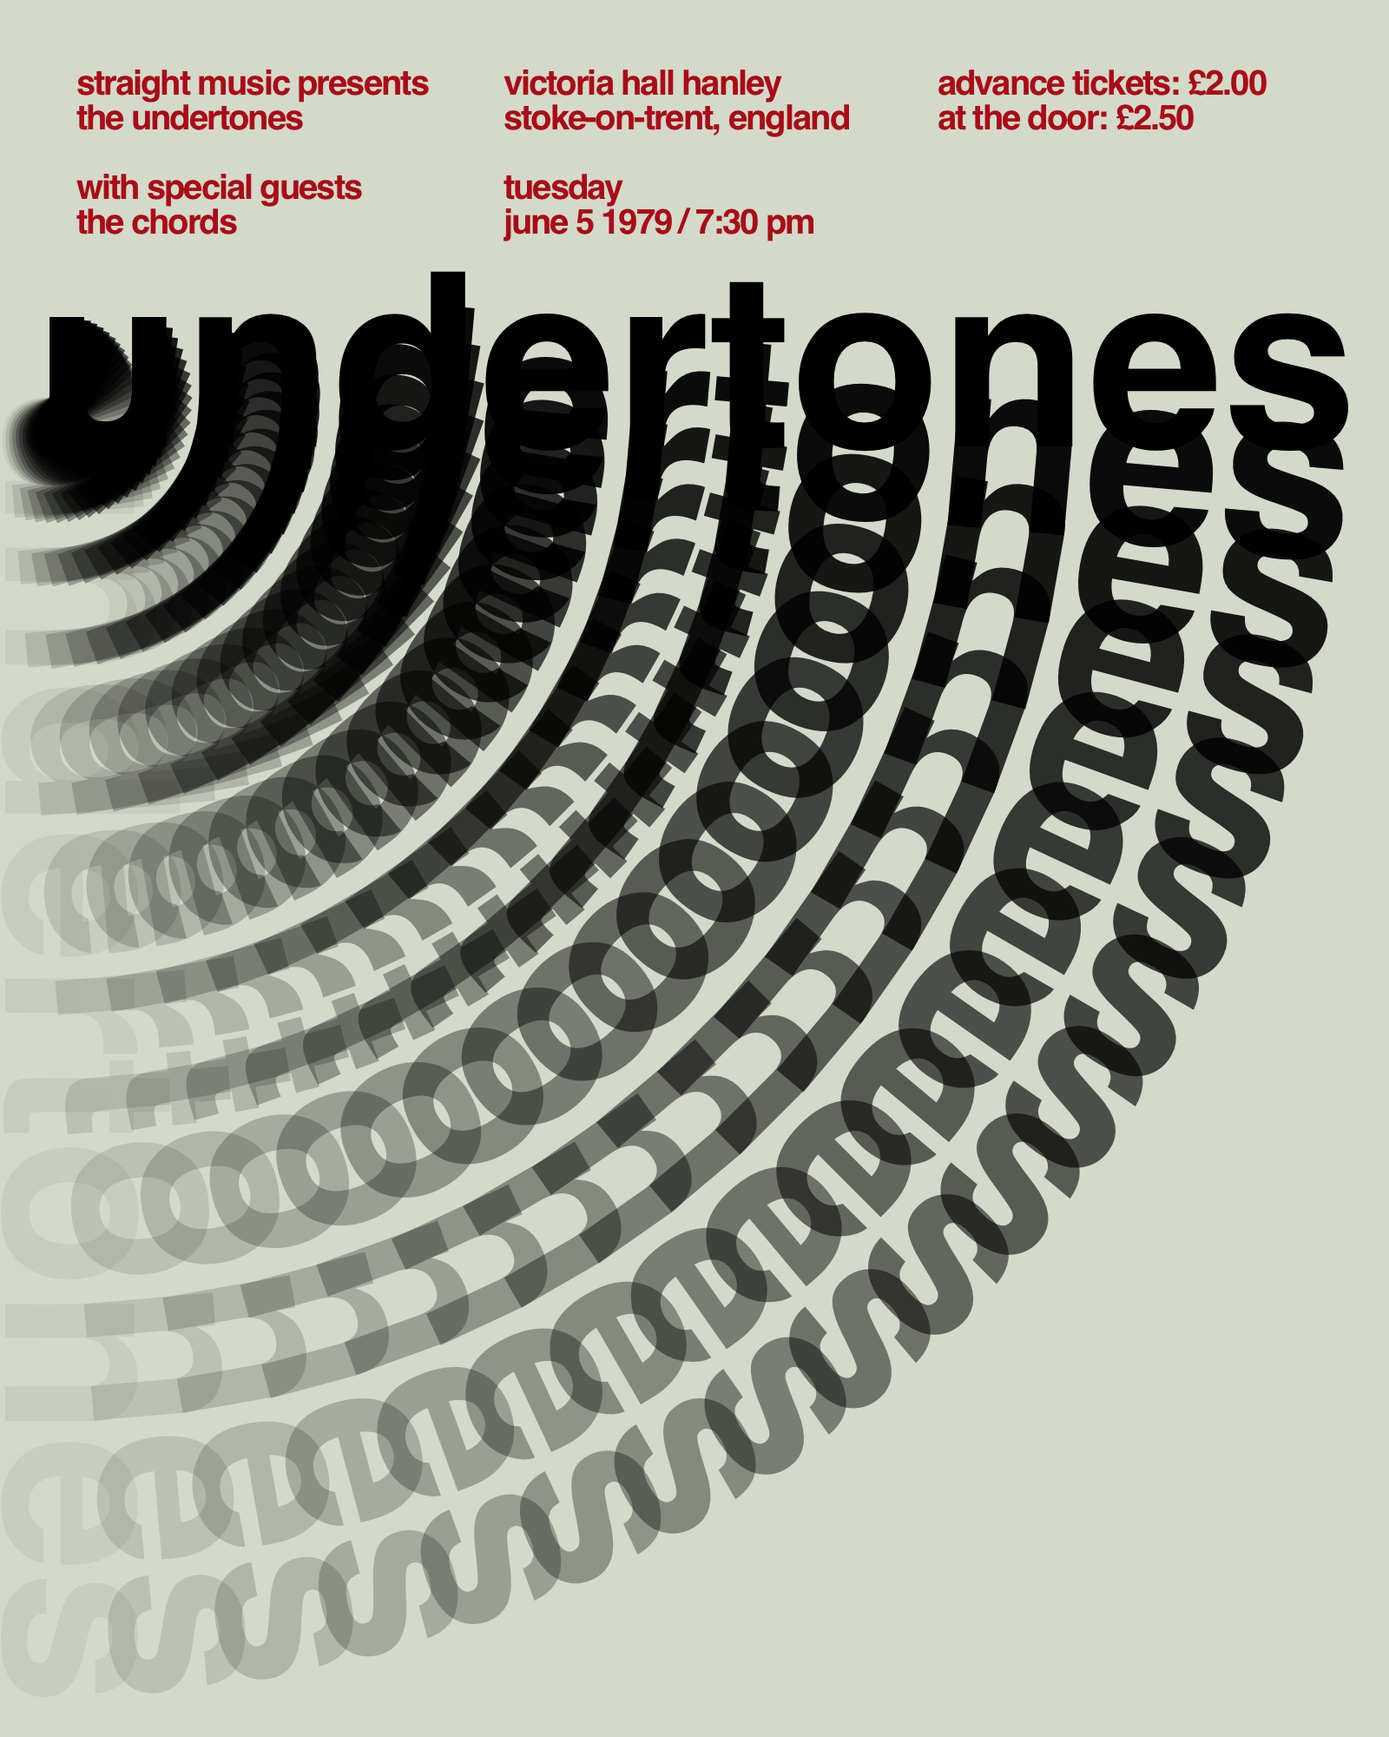
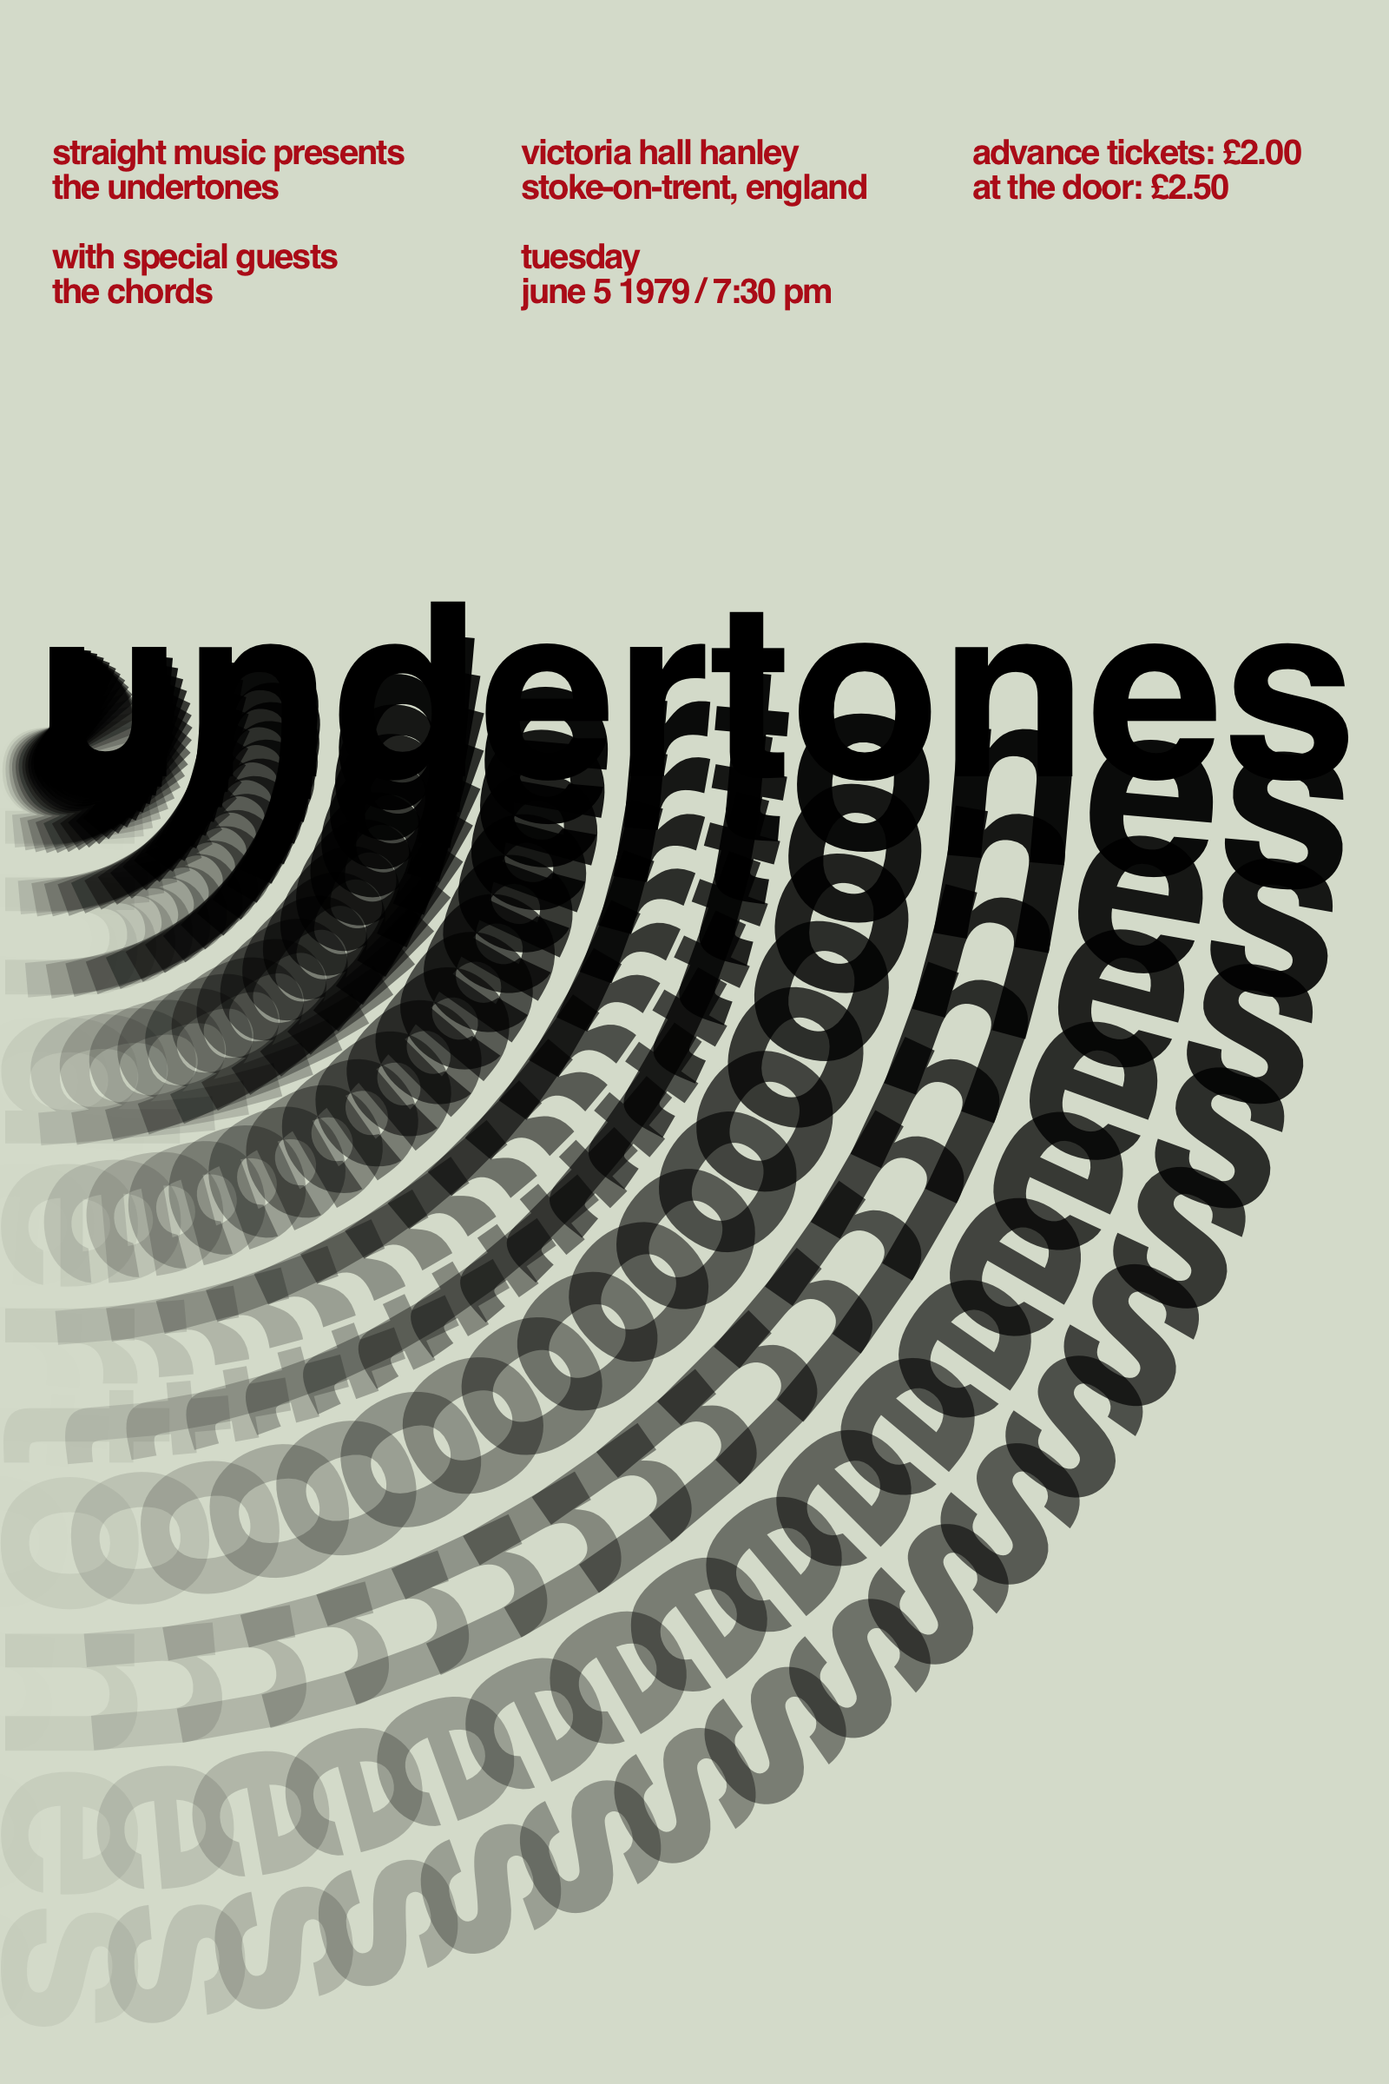
Revised dimensions to 400x600 and added Helvetica-based targets

diff --git a/ExamReviewKeyConcepts/ExamReviewKeyConcepts.playground/Pages/Exercise 4.xcplaygroundpage/Sources/Helper.swift b/ExamReviewKeyConcepts/ExamReviewKeyConcepts.playground/Pages/Exercise 4.xcplaygroundpage/Sources/Helper.swift
@@ -442,26 +442,25 @@ open class Canvas : CustomPlaygroundQuickLookable {
     }
     
     // Draw a rectangle on the image
-    open func drawRectangle(bottomLeftX: Int, bottomLeftY: Int, width: Int, height: Int, borderWidth: Int = 1) {
+    open func drawRectangle(bottomLeftX: Float, bottomLeftY: Float, width: Float, height: Float, borderWidth: Float = 1) {
         
         // Set attributes of shape based on the canvas scale factor
         var bottomLeftX = bottomLeftX
-        bottomLeftX *= scale
+        bottomLeftX *= Float(scale)
         var bottomLeftY = bottomLeftY
-        bottomLeftY *= scale
+        bottomLeftY *= Float(scale)
         var width = width
-        width *= scale
+        width *= Float(scale)
         var height = height
-        height *= scale
+        height *= Float(scale)
         var borderWidth = borderWidth
-        borderWidth *= scale
+        borderWidth *= Float(scale)
         
         // Make the new path
-        let path = NSBezierPath(rect: NSRect(x: bottomLeftX, y: bottomLeftY, width: width, height: height))
-        
+        let path = NSBezierPath(rect: NSRect(x: CGFloat(bottomLeftX), y: CGFloat(bottomLeftY), width: CGFloat(width), height: CGFloat(height)))
         
         // Set width of border
-        if borderWidth > 1 * scale {
+        if borderWidth > 1 * Float(scale) {
             path.lineWidth = CGFloat(borderWidth)
         } else {
             path.lineWidth = CGFloat(self.defaultBorderWidth * scale)
@@ -485,11 +484,25 @@ open class Canvas : CustomPlaygroundQuickLookable {
         
     }
     
+    // Draw a rectangle on the image
+    open func drawRectangle(bottomLeftX: Int, bottomLeftY: Int, width: Int, height: Int, borderWidth: Int = 1) {
+        
+        self.drawRectangle(bottomLeftX: Float(bottomLeftX), bottomLeftY: Float(bottomLeftY), width: Float(width), height: Float(height))
+        
+    }
+    
+    // Convenience method to draw rectangle from it's centre point
+    open func drawRectangle(centreX: Float, centreY: Float, width: Float, height: Float, borderWidth: Float = 1) {
+        
+        // Call the original method but with points translated
+        self.drawRectangle(bottomLeftX: centreX - width / 2, bottomLeftY: centreY - height / 2, width: width, height: height, borderWidth: borderWidth)
+    }
+    
     // Convenience method to draw rectangle from it's centre point
     open func drawRectangle(centreX: Int, centreY: Int, width: Int, height: Int, borderWidth: Int = 1) {
         
         // Call the original method but with points translated
-        self.drawRectangle(bottomLeftX: centreX - width / 2, bottomLeftY: centreY - height / 2, width: width, height: height, borderWidth: borderWidth)
+        self.drawRectangle(centreX: Float(centreX), centreY: Float(centreY), width: Float(width), height: Float(height))
         
     }
     
@@ -627,7 +640,7 @@ open class Canvas : CustomPlaygroundQuickLookable {
     open func restoreState() {
         NSGraphicsContext.restoreGraphicsState()
     }
-
+    
     open func drawAxes() {
         
         // Draw horizontal axis

diff --git a/ExamReviewKeyConcepts/ExamReviewKeyConcepts.playground/Pages/Exercise 1 .xcplaygroundpage/Sources/Helper.swift b/ExamReviewKeyConcepts/ExamReviewKeyConcepts.playground/Pages/Exercise 1 .xcplaygroundpage/Sources/Helper.swift
@@ -442,26 +442,25 @@ open class Canvas : CustomPlaygroundQuickLookable {
     }
     
     // Draw a rectangle on the image
-    open func drawRectangle(bottomLeftX: Int, bottomLeftY: Int, width: Int, height: Int, borderWidth: Int = 1) {
+    open func drawRectangle(bottomLeftX: Float, bottomLeftY: Float, width: Float, height: Float, borderWidth: Float = 1) {
         
         // Set attributes of shape based on the canvas scale factor
         var bottomLeftX = bottomLeftX
-        bottomLeftX *= scale
+        bottomLeftX *= Float(scale)
         var bottomLeftY = bottomLeftY
-        bottomLeftY *= scale
+        bottomLeftY *= Float(scale)
         var width = width
-        width *= scale
+        width *= Float(scale)
         var height = height
-        height *= scale
+        height *= Float(scale)
         var borderWidth = borderWidth
-        borderWidth *= scale
+        borderWidth *= Float(scale)
         
         // Make the new path
-        let path = NSBezierPath(rect: NSRect(x: bottomLeftX, y: bottomLeftY, width: width, height: height))
-        
+        let path = NSBezierPath(rect: NSRect(x: CGFloat(bottomLeftX), y: CGFloat(bottomLeftY), width: CGFloat(width), height: CGFloat(height)))
         
         // Set width of border
-        if borderWidth > 1 * scale {
+        if borderWidth > 1 * Float(scale) {
             path.lineWidth = CGFloat(borderWidth)
         } else {
             path.lineWidth = CGFloat(self.defaultBorderWidth * scale)
@@ -485,11 +484,25 @@ open class Canvas : CustomPlaygroundQuickLookable {
         
     }
     
+    // Draw a rectangle on the image
+    open func drawRectangle(bottomLeftX: Int, bottomLeftY: Int, width: Int, height: Int, borderWidth: Int = 1) {
+        
+        self.drawRectangle(bottomLeftX: Float(bottomLeftX), bottomLeftY: Float(bottomLeftY), width: Float(width), height: Float(height))
+        
+    }
+    
+    // Convenience method to draw rectangle from it's centre point
+    open func drawRectangle(centreX: Float, centreY: Float, width: Float, height: Float, borderWidth: Float = 1) {
+        
+        // Call the original method but with points translated
+        self.drawRectangle(bottomLeftX: centreX - width / 2, bottomLeftY: centreY - height / 2, width: width, height: height, borderWidth: borderWidth)
+    }
+    
     // Convenience method to draw rectangle from it's centre point
     open func drawRectangle(centreX: Int, centreY: Int, width: Int, height: Int, borderWidth: Int = 1) {
         
         // Call the original method but with points translated
-        self.drawRectangle(bottomLeftX: centreX - width / 2, bottomLeftY: centreY - height / 2, width: width, height: height, borderWidth: borderWidth)
+        self.drawRectangle(centreX: Float(centreX), centreY: Float(centreY), width: Float(width), height: Float(height))
         
     }
     

diff --git a/ExamReviewKeyConcepts/ExamReviewKeyConcepts.playground/Pages/Exercise 2.xcplaygroundpage/Sources/Helper.swift b/ExamReviewKeyConcepts/ExamReviewKeyConcepts.playground/Pages/Exercise 2.xcplaygroundpage/Sources/Helper.swift
@@ -442,26 +442,25 @@ open class Canvas : CustomPlaygroundQuickLookable {
     }
     
     // Draw a rectangle on the image
-    open func drawRectangle(bottomLeftX: Int, bottomLeftY: Int, width: Int, height: Int, borderWidth: Int = 1) {
+    open func drawRectangle(bottomLeftX: Float, bottomLeftY: Float, width: Float, height: Float, borderWidth: Float = 1) {
         
         // Set attributes of shape based on the canvas scale factor
         var bottomLeftX = bottomLeftX
-        bottomLeftX *= scale
+        bottomLeftX *= Float(scale)
         var bottomLeftY = bottomLeftY
-        bottomLeftY *= scale
+        bottomLeftY *= Float(scale)
         var width = width
-        width *= scale
+        width *= Float(scale)
         var height = height
-        height *= scale
+        height *= Float(scale)
         var borderWidth = borderWidth
-        borderWidth *= scale
+        borderWidth *= Float(scale)
         
         // Make the new path
-        let path = NSBezierPath(rect: NSRect(x: bottomLeftX, y: bottomLeftY, width: width, height: height))
-        
+        let path = NSBezierPath(rect: NSRect(x: CGFloat(bottomLeftX), y: CGFloat(bottomLeftY), width: CGFloat(width), height: CGFloat(height)))
         
         // Set width of border
-        if borderWidth > 1 * scale {
+        if borderWidth > 1 * Float(scale) {
             path.lineWidth = CGFloat(borderWidth)
         } else {
             path.lineWidth = CGFloat(self.defaultBorderWidth * scale)
@@ -485,11 +484,25 @@ open class Canvas : CustomPlaygroundQuickLookable {
         
     }
     
+    // Draw a rectangle on the image
+    open func drawRectangle(bottomLeftX: Int, bottomLeftY: Int, width: Int, height: Int, borderWidth: Int = 1) {
+        
+        self.drawRectangle(bottomLeftX: Float(bottomLeftX), bottomLeftY: Float(bottomLeftY), width: Float(width), height: Float(height))
+        
+    }
+    
+    // Convenience method to draw rectangle from it's centre point
+    open func drawRectangle(centreX: Float, centreY: Float, width: Float, height: Float, borderWidth: Float = 1) {
+        
+        // Call the original method but with points translated
+        self.drawRectangle(bottomLeftX: centreX - width / 2, bottomLeftY: centreY - height / 2, width: width, height: height, borderWidth: borderWidth)
+    }
+    
     // Convenience method to draw rectangle from it's centre point
     open func drawRectangle(centreX: Int, centreY: Int, width: Int, height: Int, borderWidth: Int = 1) {
         
         // Call the original method but with points translated
-        self.drawRectangle(bottomLeftX: centreX - width / 2, bottomLeftY: centreY - height / 2, width: width, height: height, borderWidth: borderWidth)
+        self.drawRectangle(centreX: Float(centreX), centreY: Float(centreY), width: Float(width), height: Float(height))
         
     }
     

diff --git a/ExamReviewKeyConcepts/ExamReviewKeyConcepts.playground/Pages/Exercise 3.xcplaygroundpage/Sources/Helper.swift b/ExamReviewKeyConcepts/ExamReviewKeyConcepts.playground/Pages/Exercise 3.xcplaygroundpage/Sources/Helper.swift
@@ -442,26 +442,25 @@ open class Canvas : CustomPlaygroundQuickLookable {
     }
     
     // Draw a rectangle on the image
-    open func drawRectangle(bottomLeftX: Int, bottomLeftY: Int, width: Int, height: Int, borderWidth: Int = 1) {
+    open func drawRectangle(bottomLeftX: Float, bottomLeftY: Float, width: Float, height: Float, borderWidth: Float = 1) {
         
         // Set attributes of shape based on the canvas scale factor
         var bottomLeftX = bottomLeftX
-        bottomLeftX *= scale
+        bottomLeftX *= Float(scale)
         var bottomLeftY = bottomLeftY
-        bottomLeftY *= scale
+        bottomLeftY *= Float(scale)
         var width = width
-        width *= scale
+        width *= Float(scale)
         var height = height
-        height *= scale
+        height *= Float(scale)
         var borderWidth = borderWidth
-        borderWidth *= scale
+        borderWidth *= Float(scale)
         
         // Make the new path
-        let path = NSBezierPath(rect: NSRect(x: bottomLeftX, y: bottomLeftY, width: width, height: height))
-        
+        let path = NSBezierPath(rect: NSRect(x: CGFloat(bottomLeftX), y: CGFloat(bottomLeftY), width: CGFloat(width), height: CGFloat(height)))
         
         // Set width of border
-        if borderWidth > 1 * scale {
+        if borderWidth > 1 * Float(scale) {
             path.lineWidth = CGFloat(borderWidth)
         } else {
             path.lineWidth = CGFloat(self.defaultBorderWidth * scale)
@@ -485,11 +484,25 @@ open class Canvas : CustomPlaygroundQuickLookable {
         
     }
     
+    // Draw a rectangle on the image
+    open func drawRectangle(bottomLeftX: Int, bottomLeftY: Int, width: Int, height: Int, borderWidth: Int = 1) {
+        
+        self.drawRectangle(bottomLeftX: Float(bottomLeftX), bottomLeftY: Float(bottomLeftY), width: Float(width), height: Float(height))
+        
+    }
+    
+    // Convenience method to draw rectangle from it's centre point
+    open func drawRectangle(centreX: Float, centreY: Float, width: Float, height: Float, borderWidth: Float = 1) {
+        
+        // Call the original method but with points translated
+        self.drawRectangle(bottomLeftX: centreX - width / 2, bottomLeftY: centreY - height / 2, width: width, height: height, borderWidth: borderWidth)
+    }
+    
     // Convenience method to draw rectangle from it's centre point
     open func drawRectangle(centreX: Int, centreY: Int, width: Int, height: Int, borderWidth: Int = 1) {
         
         // Call the original method but with points translated
-        self.drawRectangle(bottomLeftX: centreX - width / 2, bottomLeftY: centreY - height / 2, width: width, height: height, borderWidth: borderWidth)
+        self.drawRectangle(centreX: Float(centreX), centreY: Float(centreY), width: Float(width), height: Float(height))
         
     }
     

diff --git a/ExamReviewKeyConcepts/ExamReviewKeyConcepts.playground/Pages/Exercise 3.xcplaygroundpage/Contents.swift b/ExamReviewKeyConcepts/ExamReviewKeyConcepts.playground/Pages/Exercise 3.xcplaygroundpage/Contents.swift
@@ -1,14 +1,15 @@
-//: [Previous](@previous)
+//: [Previous](@previous) / [Next](@next)
 //: # Exercise 3
 //: ## Your goal
 //: Reproduce this image:
 //:
-//: ![The Runaways](TheRunaways.jpg "The Runaways")
+//: ![The Runaways](TheRunaways.png "The Runaways")
 /*:
  ## Notes:
- * you will work on a canvas that is 400 pixels wide by 500 pixels high
+ * you will work on a canvas that is 400 pixels wide by 600 pixels high
  * strongly recommend that you make a plan [using this storyboard template](http://russellgordon.ca/rsgc/2016-17/ics2o/Storyboard%20Planning%20Template.pdf) (I have hard copies available if you are in class)
  * you can use the Digital Color Meter program to obtain an RGB color value (Command-Shift-C), then [go to this site](http://rgb.to/), paste the result, and use the HSB values provided.
+ * efficiency counts: employ loops and/or function(s) and/or conditional statements to write compact code
  */
 //: ## Template code
 //: The following two statements are required to make the playground run. Please do not remove.
@@ -20,7 +21,7 @@ import PlaygroundSupport
 //: ![timeline](timeline.png "Timeline")
 //: ## Your code starts here
 // Create a new canvas
-let canvas = Canvas(width: 400, height: 500)
+let canvas = Canvas(width: 400, height: 600)
 
 
 //: ## Template code

diff --git a/ExamReviewKeyConcepts/ExamReviewKeyConcepts.playground/Pages/Exercise 2.xcplaygroundpage/Contents.swift b/ExamReviewKeyConcepts/ExamReviewKeyConcepts.playground/Pages/Exercise 2.xcplaygroundpage/Contents.swift
@@ -1,4 +1,4 @@
-//: [Previous](@previous)
+//: [Previous](@previous) / [Next](@next)
 //: # Exercise 2
 //: ## Your goal
 //: Reproduce this image:
@@ -6,9 +6,10 @@
 //: ![Undertones](Undertones.png "Undertones")
 /*:
  ## Notes:
- * you will work on a canvas that is 400 pixels wide by 500 pixels high
+ * you will work on a canvas that is 400 pixels wide by 600 pixels high
  * strongly recommend that you make a plan [using this storyboard template](http://russellgordon.ca/rsgc/2016-17/ics2o/Storyboard%20Planning%20Template.pdf) (I have hard copies available if you are in class)
  * you can use the Digital Color Meter program to obtain an RGB color value (Command-Shift-C), then [go to this site](http://rgb.to/), paste the result, and use the HSB values provided.
+ * efficiency counts: employ loops and/or function(s) and/or conditional statements to write compact code
  */
 //: ## Template code
 //: The following two statements are required to make the playground run. Please do not remove.
@@ -20,7 +21,7 @@ import PlaygroundSupport
 //: ![timeline](timeline.png "Timeline")
 //: ## Your code starts here
 // Create a new canvas
-let canvas = Canvas(width: 400, height: 500)
+let canvas = Canvas(width: 400, height: 600)
 
 
 //: ## Template code

diff --git a/ExamReviewKeyConcepts/ExamReviewKeyConcepts.playground/Pages/Exercise 1 .xcplaygroundpage/Contents.swift b/ExamReviewKeyConcepts/ExamReviewKeyConcepts.playground/Pages/Exercise 1 .xcplaygroundpage/Contents.swift
@@ -1,4 +1,4 @@
-//: [Previous](@previous)
+//: [Previous](@previous) / [Next](@next)
 //: # Exercise 1
 //: ## Your goal
 //: Reproduce this image:
@@ -6,9 +6,10 @@
 //: ![Blur](Blur.png "Blur")
 /*:
  ## Notes:
- * you will work on a canvas that is 400 pixels wide by 500 pixels high
+ * you will work on a canvas that is 400 pixels wide by 600 pixels high
  * strongly recommend that you make a plan [using this storyboard template](http://russellgordon.ca/rsgc/2016-17/ics2o/Storyboard%20Planning%20Template.pdf) (I have hard copies available if you are in class)
  * you can use the Digital Color Meter program to obtain an RGB color value (Command-Shift-C), then [go to this site](http://rgb.to/), paste the result, and use the HSB values provided.
+ * efficiency counts: employ loops and/or function(s) and/or conditional statements to write compact code
  */
 //: ## Template code
 //: The following two statements are required to make the playground run. Please do not remove.
@@ -20,7 +21,7 @@ import PlaygroundSupport
 //: ![timeline](timeline.png "Timeline")
 //: ## Your code starts here
 // Create a new canvas
-let canvas = Canvas(width: 400, height: 500)
+let canvas = Canvas(width: 400, height: 600)
 
 
 //: ## Template code

diff --git a/ExamReviewKeyConcepts/ExamReviewKeyConcepts.playground/Pages/Exercise 4.xcplaygroundpage/Contents.swift b/ExamReviewKeyConcepts/ExamReviewKeyConcepts.playground/Pages/Exercise 4.xcplaygroundpage/Contents.swift
@@ -6,9 +6,10 @@
 //: ![The Pixies](ThePixies.jpg "The Pixies")
 /*:
  ## Notes:
- * you will work on a canvas that is 400 pixels wide by 500 pixels high
+ * you will work on a canvas that is 400 pixels wide by 600 pixels high
  * strongly recommend that you make a plan [using this storyboard template](http://russellgordon.ca/rsgc/2016-17/ics2o/Storyboard%20Planning%20Template.pdf) (I have hard copies available if you are in class)
  * you can use the Digital Color Meter program to obtain an RGB color value (Command-Shift-C), then [go to this site](http://rgb.to/), paste the result, and use the HSB values provided.
+ * efficiency counts: employ loops and/or function(s) and/or conditional statements to write compact code
  */
 //: ## Template code
 //: The following two statements are required to make the playground run. Please do not remove.
@@ -20,7 +21,7 @@ import PlaygroundSupport
 //: ![timeline](timeline.png "Timeline")
 //: ## Your code starts here
 // Create a new canvas
-let canvas = Canvas(width: 400, height: 500)
+let canvas = Canvas(width: 400, height: 600)
 
 
 //: ## Template code
